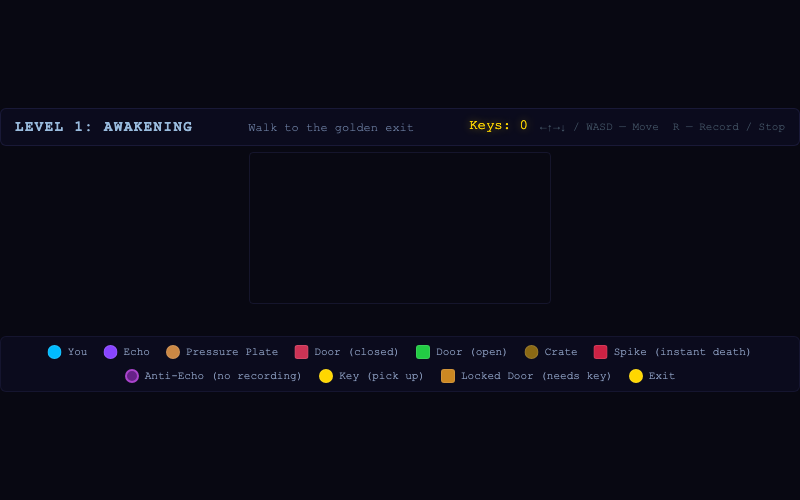
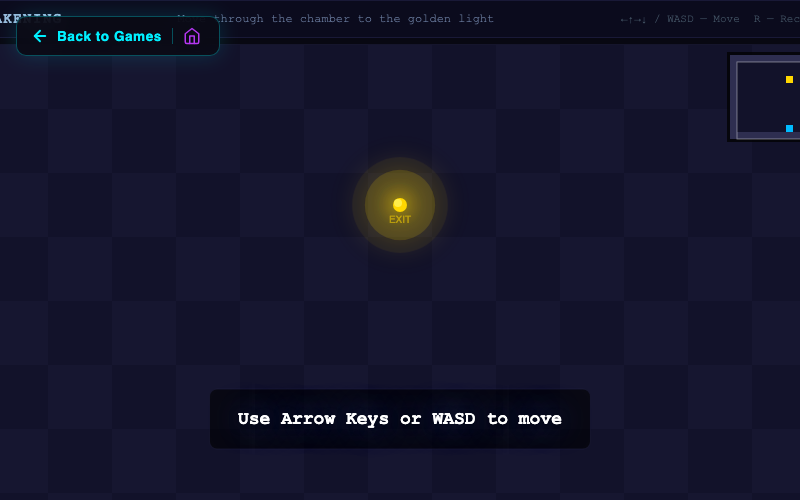
Cyberpunk theme injection for all games + fixed duplicate declaration

diff --git a/server.js b/server.js
@@ -344,6 +344,20 @@ function injectGameNav(html) {
   return navHtml + html;
 }
 
+// Cyberpunk theme injected into all games
+const cyberpunkBg = `<style id="syntax-theme">
+  html, body { background: #0a0a1e !important; }
+  body::before {
+    content: '';
+    position: fixed;
+    inset: 0;
+    background: radial-gradient(ellipse at 50% 0%, rgba(0,240,255,0.06) 0%, transparent 60%),
+                radial-gradient(ellipse at 80% 100%, rgba(181,55,242,0.04) 0%, transparent 50%);
+    pointer-events: none;
+    z-index: -1;
+  }
+</style>`;
+
 app.get('/games/echoes', (req, res) => {
   if (req.isAuthenticated()) {
     const db = require('./db/database');
@@ -409,7 +423,7 @@ function serveGame(route, folder) {
     }
     const fs = require('fs');
     let html = fs.readFileSync(path.join(__dirname, 'games', folder, 'index.html'), 'utf8');
-    html = html.replace('<head>', '<head><base href="' + route + '/">');
+    html = html.replace('<head>', '<head><base href="' + route + '/">' + cyberpunkBg);
     html = injectGameNav(html);
     html = injectGameSave(html, gameId);
     res.type('html').send(html);
@@ -504,7 +518,7 @@ app.get('/games/cuber', (req, res) => {
   const htmlPath = path.join(gameDir, 'mini.html');
   if (!fs.existsSync(htmlPath)) return res.status(404).render('404');
   let html = fs.readFileSync(htmlPath, 'utf8');
-  html = html.replace('<head>', '<head><base href="/games/cuber/cube2/">');
+  html = html.replace('<head>', '<head><base href="/games/cuber/cube2/">' + cyberpunkBg);
   html = injectGameNav(html);
   res.type('html').send(html);
 });
@@ -525,7 +539,7 @@ app.get('/games/arena-fps', (req, res) => {
   const htmlPath = path.join(__dirname, 'games', 'arena-fps', 'public', 'index.html');
   if (!fs.existsSync(htmlPath)) return res.status(404).render('404');
   let html = fs.readFileSync(htmlPath, 'utf8');
-  html = html.replace('<head>', '<head><base href="/games/arena-fps/">');
+  html = html.replace('<head>', '<head><base href="/games/arena-fps/">' + cyberpunkBg);
   html = injectGameNav(html);
   res.type('html').send(html);
 });
@@ -546,7 +560,7 @@ app.get('/games/openarena-web', (req, res) => {
   const htmlPath = path.join(__dirname, 'games', 'openarena-web', 'release', 'index.html');
   if (!fs.existsSync(htmlPath)) return res.status(404).render('404');
   let html = fs.readFileSync(htmlPath, 'utf8');
-  html = html.replace('<head>', '<head><base href="/games/openarena-web/release/">');
+  html = html.replace('<head>', '<head><base href="/games/openarena-web/release/">' + cyberpunkBg);
   html = injectGameNav(html);
   res.type('html').send(html);
 });